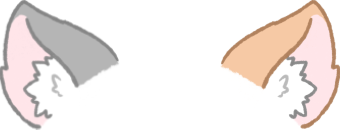
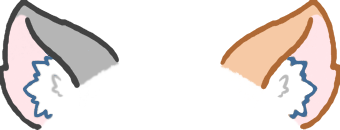
Fix cat white ears & Add Fox Ears

Changed region(s): [[0.0, 0.0, 0.3529, 1.0], [0.6471, 0.0, 1.0, 1.0]]

diff --git a/src/components/ui/Avatar.tsx b/src/components/ui/Avatar.tsx
@@ -9,6 +9,7 @@ import { hasBit, USER_BADGES } from "@/chat-api/Bitwise";
 import styles from "./AvatarStyles.module.scss";
 import { FounderAdminSupporterBorder } from "../avatar-borders/FounderAdminSupporterBorder";
 import { CatEarsBorder } from "../avatar-borders/CatEarBorder";
+import { FoxEarsBorder } from "../avatar-borders/FoxEarBorder";
 
 interface Props {
   url?: string | null;
@@ -455,6 +456,22 @@ function Overlays(props: { badges?: number; offset?: number; size: number }) {
   return (
     <Show when={props.badges}>
       <Switch>
+        <Match when={hasBit(props.badges!, USER_BADGES.FOX_EARS_BROWN.bit)}>
+          <FoxEarsBorder
+            size={props.size}
+            offset={(props.offset || 0) - 0.2}
+            color="brown"
+          />
+        </Match>
+
+        <Match when={hasBit(props.badges!, USER_BADGES.FOX_EARS_GOLD.bit)}>
+          <FoxEarsBorder
+            size={props.size}
+            offset={(props.offset || 0) - 0.2}
+            color="gold"
+          />
+        </Match>
+
         <Match when={hasBit(props.badges!, USER_BADGES.CAT_EARS_BLUE.bit)}>
           <CatEarsBorder size={props.size} offset={props.offset} color="blue" />
         </Match>

diff --git a/src/chat-api/Bitwise.ts b/src/chat-api/Bitwise.ts
@@ -16,8 +16,12 @@ const USER_BADGE_BITS = {
   BOT: 32,
   MOD: 64,
   EMO_SUPPORTER: 128,
+
   CAT_EARS_WHITE: 256,
   CAT_EARS_BLUE: 512,
+
+  FOX_EARS_GOLD: 1024,
+  FOX_EARS_BROWN: 2048,
 };
 
 export const USER_BADGES = {
@@ -35,6 +39,20 @@ export const USER_BADGES = {
     color: "linear-gradient(90deg, #ffa761 0%, #ffffff 100%)",
     overlay: true,
     description: "White Ears Kitty",
+  },
+  FOX_EARS_GOLD: {
+    name: "Foxy",
+    bit: USER_BADGE_BITS.FOX_EARS_GOLD,
+    color: "linear-gradient(90deg, #ffb100 0%, #ffffff 100%);",
+    overlay: true,
+    description: "Gold Ears Fox",
+  },
+  FOX_EARS_BROWN: {
+    name: "Foxy",
+    bit: USER_BADGE_BITS.FOX_EARS_BROWN,
+    color: "linear-gradient(90deg, #bb7435 0%, #ffffff 100%);",
+    overlay: true,
+    description: "Brown Ears Fox",
   },
 
   FOUNDER: {

diff --git a/src/components/avatar-borders/FoxEarBorder.tsx b/src/components/avatar-borders/FoxEarBorder.tsx
@@ -1,0 +1,22 @@
+import { JSXElement, Match, Show, Switch } from "solid-js";
+
+export function FoxEarsBorder(props: {
+  children?: JSXElement;
+  hovered?: boolean;
+  size: number;
+  offset?: number;
+  color: "gold" | "brown";
+}) {
+  return (
+    <img
+      class="cat-ears"
+      style={{
+        position: "absolute",
+        width: "100%",
+        "margin-top": (props.offset || 0) * props.size + "px",
+        "z-index": "1111",
+      }}
+      src={`/borders/fox-ears-${props.color}.png`}
+    />
+  );
+}
